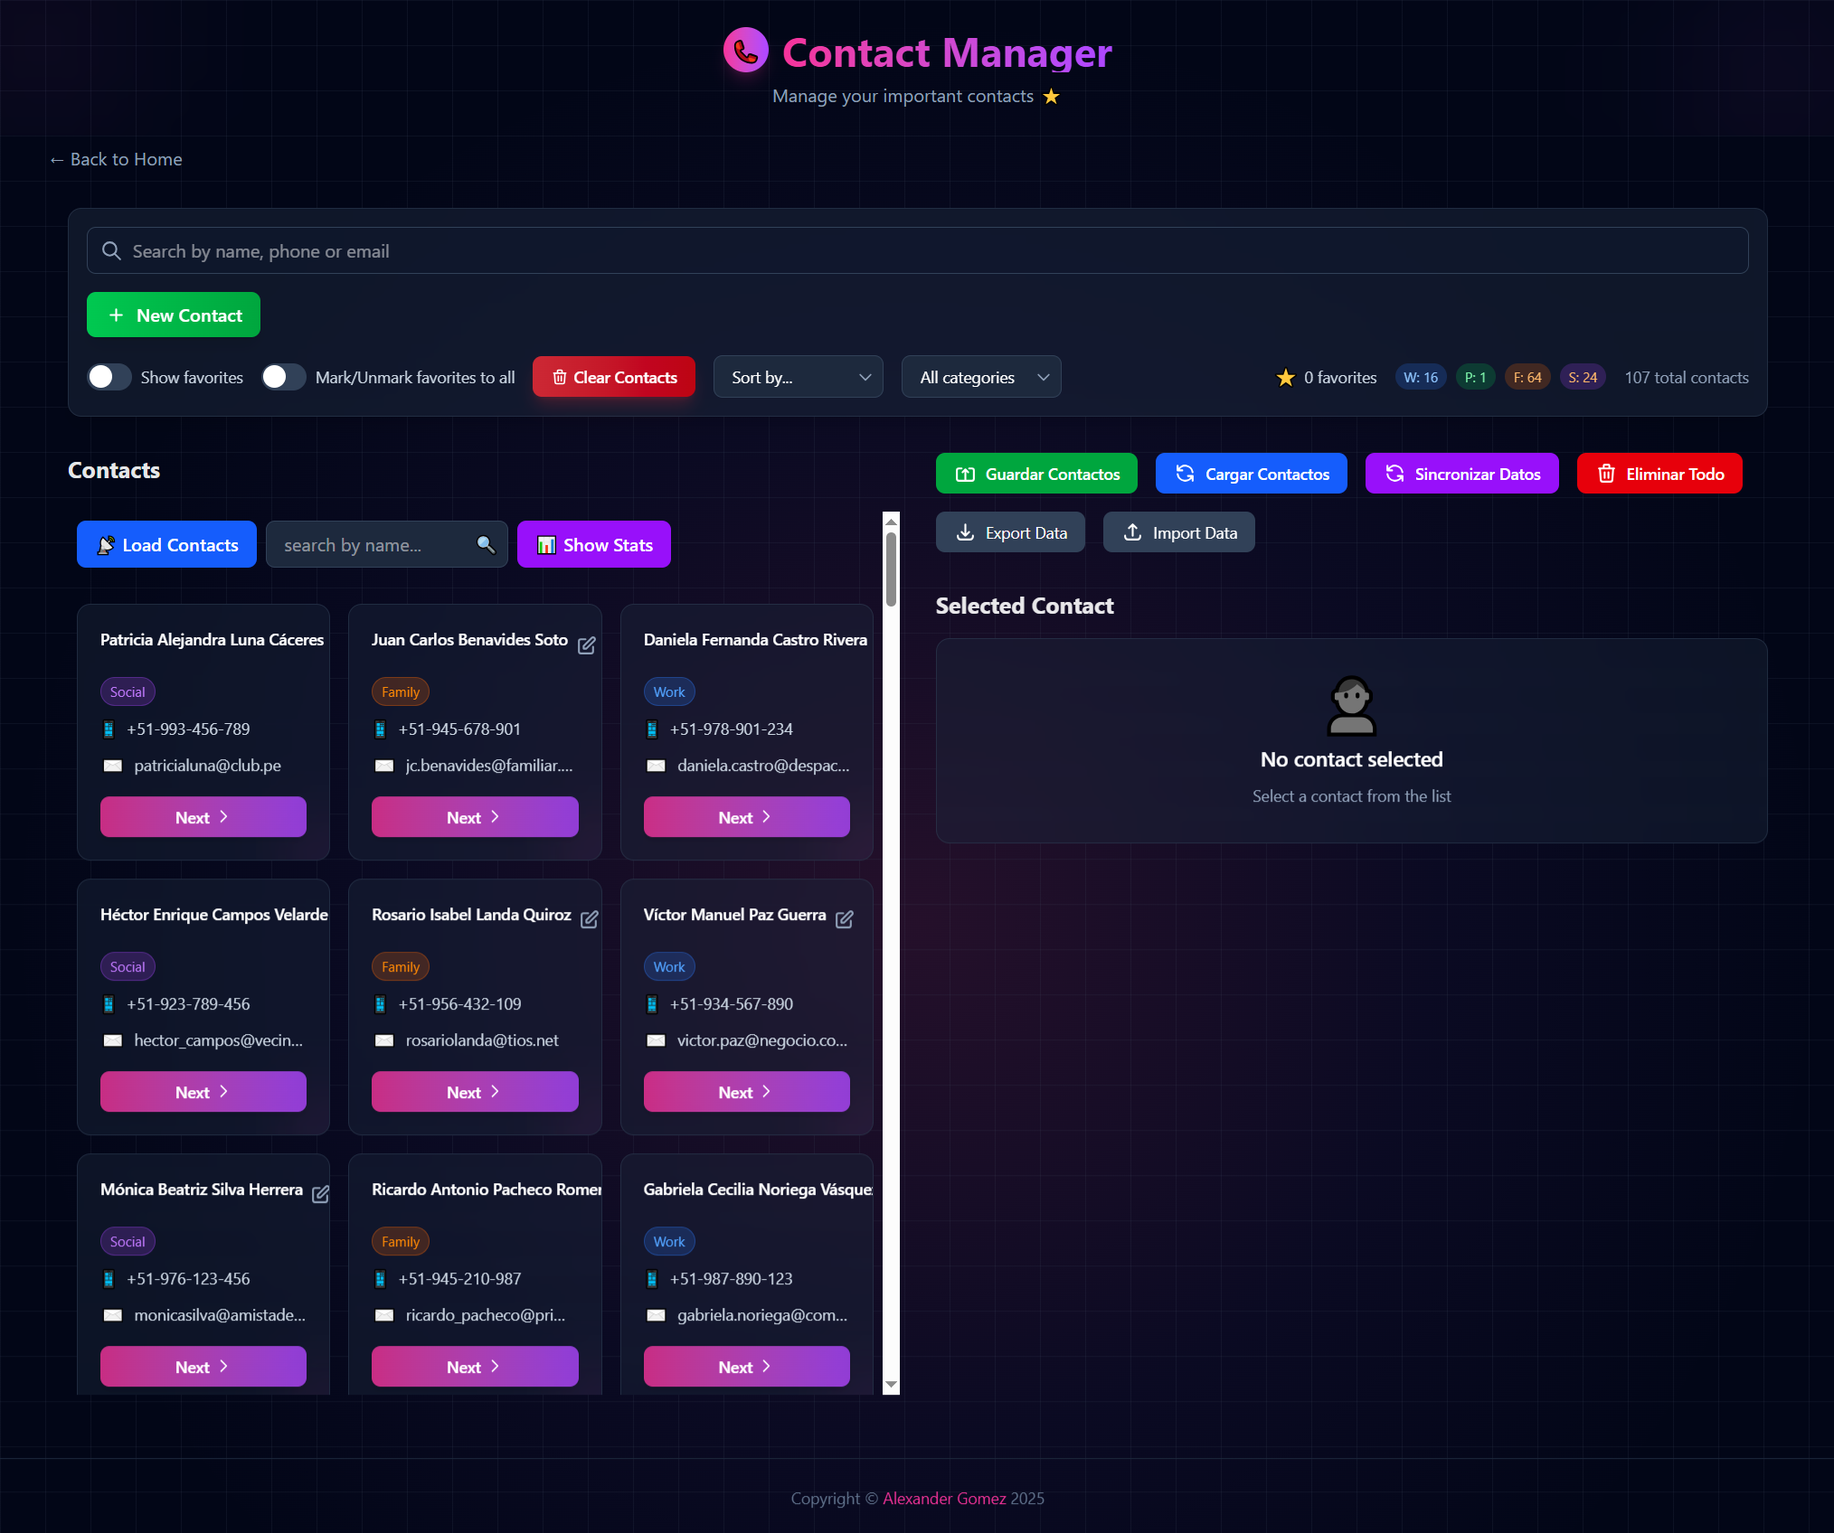
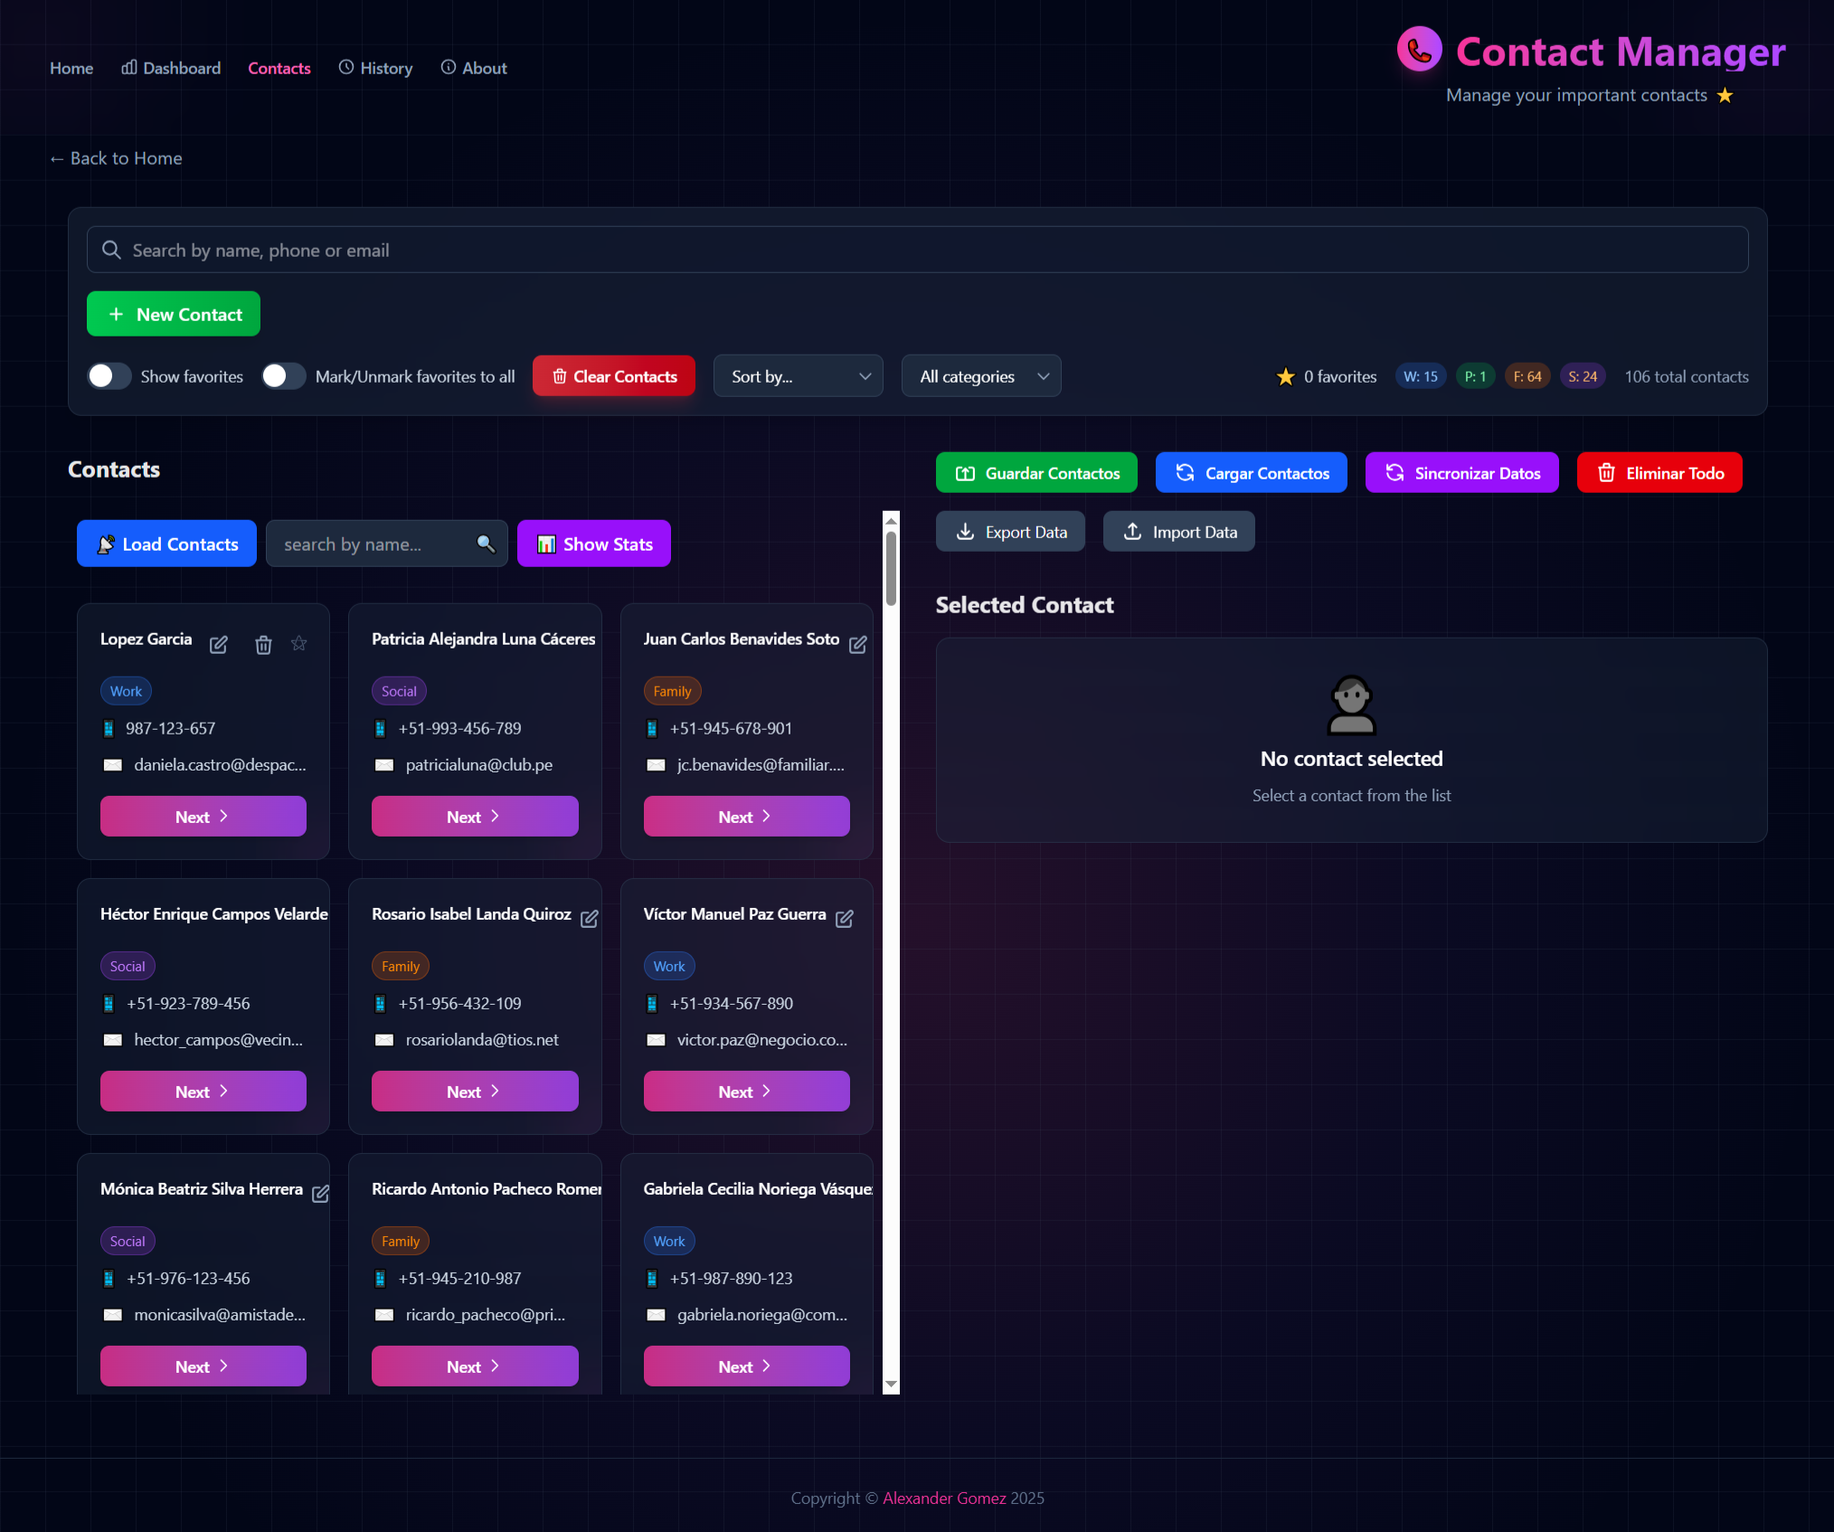
Se actualizó documentacion y se agrego AboutPage

diff --git a/src/pages/AboutPage.jsx b/src/pages/AboutPage.jsx
@@ -1,0 +1,260 @@
+import React from 'react';
+import { useNavigate } from 'react-router-dom';
+import Header from '../components/Header';
+import Footer from '../components/Footer';
+import { Github, Linkedin, Globe, Code, Heart, Star, Users, Zap } from 'lucide-react';
+
+export default function AboutPage() {
+  const navigate = useNavigate();
+
+  const features = [
+    {
+      icon: Users,
+      title: 'Contact Management',
+      description: 'Complete CRUD operations with advanced search and filtering capabilities'
+    },
+    {
+      icon: Heart,
+      title: 'Favorites System',
+      description: 'Mark and organize your most important contacts with ease'
+    },
+    {
+      icon: Zap,
+      title: 'Real-time Validation',
+      description: 'Instant feedback with smart form validation and error handling'
+    },
+    {
+      icon: Code,
+      title: 'Modern Architecture',
+      description: 'Built with React 19, Tailwind CSS, and modern development practices'
+    }
+  ];
+
+  const technologies = [
+    { name: 'React 19', color: 'text-blue-400' },
+    { name: 'Tailwind CSS', color: 'text-cyan-400' },
+    { name: 'Vite', color: 'text-purple-400' },
+    { name: 'JavaScript ES6+', color: 'text-yellow-400' },
+    { name: 'React Router', color: 'text-red-400' },
+    { name: 'Lucide Icons', color: 'text-green-400' }
+  ];
+
+  return (
+    <div className="min-h-screen w-full bg-[#020617] relative">
+      <div
+        className="absolute inset-0 z-0"
+        style={{
+          background: "#020617",
+          backgroundImage: `
+            linear-gradient(to right, rgba(71,85,105,0.15) 1px, transparent 1px), 
+            linear-gradient(to bottom, rgba(71,85,105,0.15) 1px, transparent 1px), 
+            radial-gradient(circle at 50% 60%, rgba(236,72,153,0.15) 0%, rgba(168,85,247,0.05) 40%, transparent 70%)
+          `,
+          backgroundSize: "40px 40px, 40px 40px, 100% 100%",
+        }}
+      />
+      
+      <div className="relative z-10 flex flex-col min-h-screen">
+        <Header />
+        
+        <main className="flex-grow container mx-auto px-4 py-6">
+          <div className="max-w-4xl mx-auto">
+            {/* Breadcrumbs */}
+            <nav className="mb-6 text-sm">
+              <ol className="flex items-center space-x-2 text-slate-400">
+                <li>
+                  <button 
+                    onClick={() => navigate('/')}
+                    className="hover:text-white transition-colors"
+                  >
+                    Home
+                  </button>
+                </li>
+                <li className="flex items-center">
+                  <svg className="w-4 h-4 mx-2" fill="none" stroke="currentColor" viewBox="0 0 24 24">
+                    <path strokeLinecap="round" strokeLinejoin="round" strokeWidth={2} d="M9 5l7 7-7 7" />
+                  </svg>
+                  <span className="text-white font-medium">About</span>
+                </li>
+              </ol>
+            </nav>
+
+            {/* Hero Section */}
+            <div className="text-center mb-12">
+              <div className="w-20 h-20 bg-gradient-to-r from-pink-500 to-purple-600 rounded-2xl flex items-center justify-center mx-auto mb-6">
+                <Heart className="w-10 h-10 text-white" />
+              </div>
+              <h1 className="text-4xl md:text-5xl font-bold text-white mb-4">
+                Contact Manager
+              </h1>
+              <p className="text-xl text-slate-400 max-w-2xl mx-auto leading-relaxed">
+                A modern, intuitive contact management application built with cutting-edge technologies 
+                to help you organize and manage your personal and professional contacts efficiently.
+              </p>
+            </div>
+
+            {/* Features Grid */}
+            <div className="mb-12">
+              <h2 className="text-2xl font-bold text-white mb-8 text-center">
+                Key Features
+              </h2>
+              <div className="grid grid-cols-1 md:grid-cols-2 gap-6">
+                {features.map((feature, index) => {
+                  const Icon = feature.icon;
+                  return (
+                    <div 
+                      key={index}
+                      className="bg-slate-800/50 backdrop-blur-sm border border-slate-700/50 rounded-xl p-6 hover:bg-slate-800/70 transition-all duration-200"
+                    >
+                      <div className="flex items-start space-x-4">
+                        <div className="w-12 h-12 bg-gradient-to-r from-pink-500 to-purple-600 rounded-lg flex items-center justify-center flex-shrink-0">
+                          <Icon className="w-6 h-6 text-white" />
+                        </div>
+                        <div>
+                          <h3 className="text-lg font-semibold text-white mb-2">
+                            {feature.title}
+                          </h3>
+                          <p className="text-slate-400 leading-relaxed">
+                            {feature.description}
+                          </p>
+                        </div>
+                      </div>
+                    </div>
+                  );
+                })}
+              </div>
+            </div>
+
+            {/* Technologies */}
+            <div className="mb-12">
+              <h2 className="text-2xl font-bold text-white mb-8 text-center">
+                Built With
+              </h2>
+              <div className="bg-slate-800/50 backdrop-blur-sm border border-slate-700/50 rounded-xl p-6">
+                <div className="flex flex-wrap justify-center gap-4">
+                  {technologies.map((tech, index) => (
+                    <div 
+                      key={index}
+                      className="bg-slate-700/50 px-4 py-2 rounded-lg border border-slate-600/50 hover:bg-slate-700/70 transition-colors"
+                    >
+                      <span className={`font-medium ${tech.color}`}>
+                        {tech.name}
+                      </span>
+                    </div>
+                  ))}
+                </div>
+              </div>
+            </div>
+
+            {/* Developer Info */}
+            <div className="mb-12">
+              <h2 className="text-2xl font-bold text-white mb-8 text-center">
+                Developer
+              </h2>
+              <div className="bg-slate-800/50 backdrop-blur-sm border border-slate-700/50 rounded-xl p-8">
+                <div className="text-center">
+                  <div className="w-24 h-24 bg-gradient-to-r from-pink-500 to-purple-600 rounded-full flex items-center justify-center mx-auto mb-6">
+                    <span className="text-2xl font-bold text-white">AG</span>
+                  </div>
+                  <h3 className="text-2xl font-bold text-white mb-2">
+                    Alexander Gomez
+                  </h3>
+                  <p className="text-slate-400 mb-6 max-w-2xl mx-auto">
+                    Full Stack Developer passionate about creating modern, user-friendly applications 
+                    with clean code and exceptional user experiences.
+                  </p>
+                  
+                  {/* Social Links */}
+                  <div className="flex justify-center space-x-4">
+                    <a 
+                      href="https://github.com/AlexanderG8" 
+                      target="_blank" 
+                      rel="noopener noreferrer"
+                      className="w-12 h-12 bg-slate-700/50 hover:bg-slate-700 border border-slate-600/50 rounded-lg flex items-center justify-center transition-colors group"
+                    >
+                      <Github className="w-5 h-5 text-slate-400 group-hover:text-white" />
+                    </a>
+                    <a 
+                      href="https://www.linkedin.com/in/marcello-alexander-gomez-gomez-130587268/" 
+                      target="_blank" 
+                      rel="noopener noreferrer"
+                      className="w-12 h-12 bg-slate-700/50 hover:bg-slate-700 border border-slate-600/50 rounded-lg flex items-center justify-center transition-colors group"
+                    >
+                      <Linkedin className="w-5 h-5 text-slate-400 group-hover:text-blue-400" />
+                    </a>
+                    <a 
+                      href="https://alexanderg8.github.io/my-portfolio-web/" 
+                      target="_blank" 
+                      rel="noopener noreferrer"
+                      className="w-12 h-12 bg-slate-700/50 hover:bg-slate-700 border border-slate-600/50 rounded-lg flex items-center justify-center transition-colors group"
+                    >
+                      <Globe className="w-5 h-5 text-slate-400 group-hover:text-green-400" />
+                    </a>
+                  </div>
+                </div>
+              </div>
+            </div>
+
+            {/* Project Stats */}
+            <div className="mb-12">
+              <h2 className="text-2xl font-bold text-white mb-8 text-center">
+                Project Highlights
+              </h2>
+              <div className="grid grid-cols-1 md:grid-cols-3 gap-6">
+                <div className="bg-slate-800/50 backdrop-blur-sm border border-slate-700/50 rounded-xl p-6 text-center">
+                  <div className="w-12 h-12 bg-blue-500/20 rounded-lg flex items-center justify-center mx-auto mb-4">
+                    <Code className="w-6 h-6 text-blue-400" />
+                  </div>
+                  <h3 className="text-2xl font-bold text-white mb-2">React 19</h3>
+                  <p className="text-slate-400">Latest React version with modern hooks</p>
+                </div>
+                <div className="bg-slate-800/50 backdrop-blur-sm border border-slate-700/50 rounded-xl p-6 text-center">
+                  <div className="w-12 h-12 bg-green-500/20 rounded-lg flex items-center justify-center mx-auto mb-4">
+                    <Zap className="w-6 h-6 text-green-400" />
+                  </div>
+                  <h3 className="text-2xl font-bold text-white mb-2">Fast</h3>
+                  <p className="text-slate-400">Optimized performance with Vite</p>
+                </div>
+                <div className="bg-slate-800/50 backdrop-blur-sm border border-slate-700/50 rounded-xl p-6 text-center">
+                  <div className="w-12 h-12 bg-purple-500/20 rounded-lg flex items-center justify-center mx-auto mb-4">
+                    <Star className="w-6 h-6 text-purple-400" />
+                  </div>
+                  <h3 className="text-2xl font-bold text-white mb-2">Modern</h3>
+                  <p className="text-slate-400">Clean UI with Tailwind CSS</p>
+                </div>
+              </div>
+            </div>
+
+            {/* Call to Action */}
+            <div className="text-center">
+              <div className="bg-gradient-to-r from-pink-500/20 to-purple-600/20 border border-pink-500/30 rounded-xl p-8">
+                <h2 className="text-2xl font-bold text-white mb-4">
+                  Ready to Manage Your Contacts?
+                </h2>
+                <p className="text-slate-300 mb-6">
+                  Start organizing your contacts with our intuitive and powerful contact management system.
+                </p>
+                <div className="flex flex-col sm:flex-row gap-4 justify-center">
+                  <button
+                    onClick={() => navigate('/contacts')}
+                    className="bg-gradient-to-r from-pink-500 to-purple-600 hover:from-pink-600 hover:to-purple-700 text-white px-8 py-3 rounded-lg font-medium transition-all duration-200 hover:scale-105"
+                  >
+                    View Contacts
+                  </button>
+                  <button
+                    onClick={() => navigate('/contacts/new')}
+                    className="bg-slate-700/50 hover:bg-slate-700 border border-slate-600/50 text-white px-8 py-3 rounded-lg font-medium transition-colors"
+                  >
+                    Add New Contact
+                  </button>
+                </div>
+              </div>
+            </div>
+          </div>
+        </main>
+        
+        <Footer />
+      </div>
+    </div>
+  );
+}

diff --git a/src/components/Header.jsx b/src/components/Header.jsx
@@ -55,6 +55,19 @@ export default function Header() {
             </svg>
             History
           </button>
+          <button
+            onClick={() => navigate('/about')}
+            className={`text-sm font-medium transition-colors flex items-center gap-1 ${
+              location.pathname === '/about' 
+                ? 'text-pink-400' 
+                : 'text-slate-400 hover:text-white'
+            }`}
+          >
+            <svg className="w-4 h-4" fill="none" stroke="currentColor" viewBox="0 0 24 24">
+              <path strokeLinecap="round" strokeLinejoin="round" strokeWidth={2} d="M13 16h-1v-4h-1m1-4h.01M21 12a9 9 0 11-18 0 9 9 0 0118 0z" />
+            </svg>
+            About
+          </button>
         </nav>
 
         {/* Logo and Title */}

diff --git a/src/App.jsx b/src/App.jsx
@@ -6,6 +6,7 @@ import ContactDetailPage from './pages/ContactDetailPage';
 import ContactEditPage from './pages/ContactEditPage';
 import ContactNewPage from './pages/ContactNewPage';
 import ContactHistoryPage from './pages/ContactHistoryPage';
+import AboutPage from './pages/AboutPage';
 
 export default function App() {
   return (
@@ -18,6 +19,7 @@ export default function App() {
           <Route path="/contacts/edit/:id" element={<ContactEditPage />} />
           <Route path="/contacts/new" element={<ContactNewPage />} />
           <Route path="/contacts/history" element={<ContactHistoryPage />} />
+          <Route path="/about" element={<AboutPage />} />
         </Routes>
     </Router>
   );

diff --git a/README.md b/README.md
@@ -3,9 +3,12 @@
 > **Una aplicación web completa para gestión de contactos desarrollada con React 19, Tailwind CSS y arquitectura moderna. Implementa patrones de diseño avanzados, integración con APIs externas y persistencia de datos local.**
 
 ![Home Page](./src/assets/homepage.png)
+![Dashboard](./src/assets/DashboardPage.png)
 ![Contacts Page](./src/assets/ContactsPage.png)
 ![Add Contact](./src/assets/NewContactPage.png)
 ![Edit Contact](./src/assets/EditContactPage.png)
+![Contact History](./src/assets/HistoryPage.png)
+![About](./src/assets/AboutPage.png)
 
 [![React](https://img.shields.io/badge/React-19-61DAFB?style=for-the-badge&logo=react&logoColor=white)](https://reactjs.org/)
 [![Tailwind CSS](https://img.shields.io/badge/Tailwind_CSS-4-38B2AC?style=for-the-badge&logo=tailwind-css&logoColor=white)](https://tailwindcss.com/)
@@ -23,6 +26,8 @@
 - **Categorización**: Sistema de categorías con código de colores (Trabajo, Personal, Familia)
 - **Sistema de Favoritos**: Marcado y filtrado de contactos favoritos
 - **Ordenamiento Avanzado**: Múltiples criterios de ordenamiento (alfabético, favoritos, fecha)
+- **Dashboard Interactivo**: Panel de control con estadísticas, gráficos y métricas en tiempo real
+- **Página About**: Información completa sobre la aplicación, tecnologías y desarrollador
 
 ### 🎯 Funcionalidades Avanzadas
 
@@ -32,6 +37,10 @@
 - **Responsive Design**: Interfaz adaptable a todos los dispositivos
 - **Dark Mode**: Tema oscuro moderno y elegante
 - **Prevención de Duplicados**: Sistema inteligente para evitar contactos duplicados
+- **Visualización de Datos**: Gráficos interactivos con Recharts para análisis de contactos
+- **Métricas en Tiempo Real**: Estadísticas dinámicas de contactos, favoritos y categorías
+- **Navegación Completa**: Sistema de navegación con breadcrumbs y enlaces directos
+- **Información del Proyecto**: Página dedicada con detalles técnicos y enlaces del desarrollador
 
 ## 🛠 Stack Tecnológico
 
@@ -106,7 +115,9 @@ src/
 │   └── ...
 ├── pages/              # Páginas principales
 │   ├── ContactsPage.jsx    # Página principal de contactos
+│   ├── DashboardPage.jsx   # Dashboard con estadísticas
 │   ├── ContactDetailPage.jsx
+│   ├── AboutPage.jsx       # Página de información
 │   └── ...
 ├── services/           # Capa de servicios
 │   └── contactService.js   # Servicio de contactos
@@ -180,6 +191,14 @@ class ContactService {
 - [x] Exportación/Importación JSON
 - [x] Sistema de respaldo automático
 
+### ✅ Dashboard y Analytics
+
+- [x] Dashboard interactivo con métricas en tiempo real
+- [x] Gráficos de barras, líneas y pie charts
+- [x] Estadísticas de contactos por categoría
+- [x] Análisis de contactos favoritos y recientes
+- [x] Acciones rápidas desde el dashboard
+
 ### ✅ Experiencia de Usuario
 
 - [x] Notificaciones modernas con Sonner
@@ -187,6 +206,8 @@ class ContactService {
 - [x] Responsive design
 - [x] Dark mode
 - [x] Indicadores de progreso
+- [x] Página About con información completa
+- [x] Navegación intuitiva con breadcrumbs
 
 ## 🎯 Casos de Uso
 
@@ -215,6 +236,7 @@ class ContactService {
 ## 👨💻 Autor
 
 **Alexander Gomez**
+
 - LinkedIn: [Alexander Gomez](https://www.linkedin.com/in/marcello-alexander-gomez-gomez-130587268/)
 - GitHub: [@AlexanderG8](https://github.com/AlexanderG8)
 - Portfolio: [Mi Portfolio](https://alexanderg8.github.io/my-portfolio-web/)
